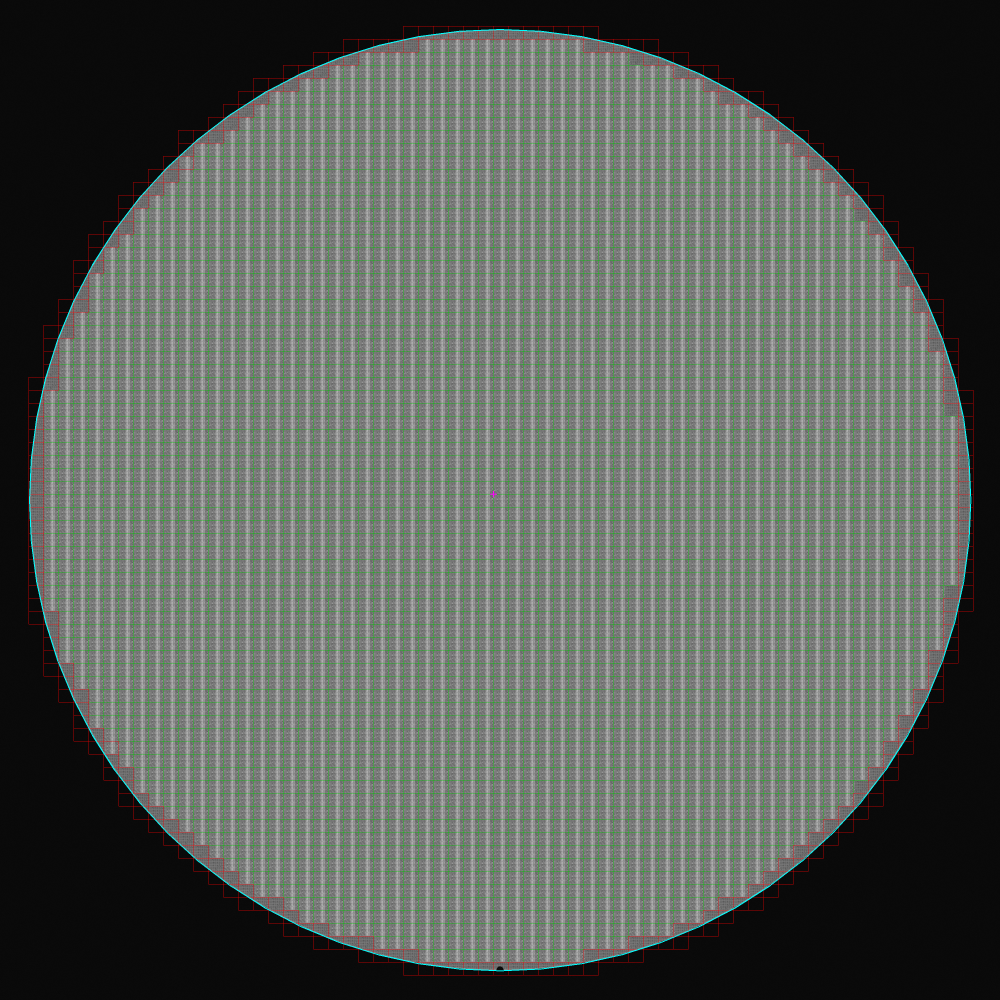
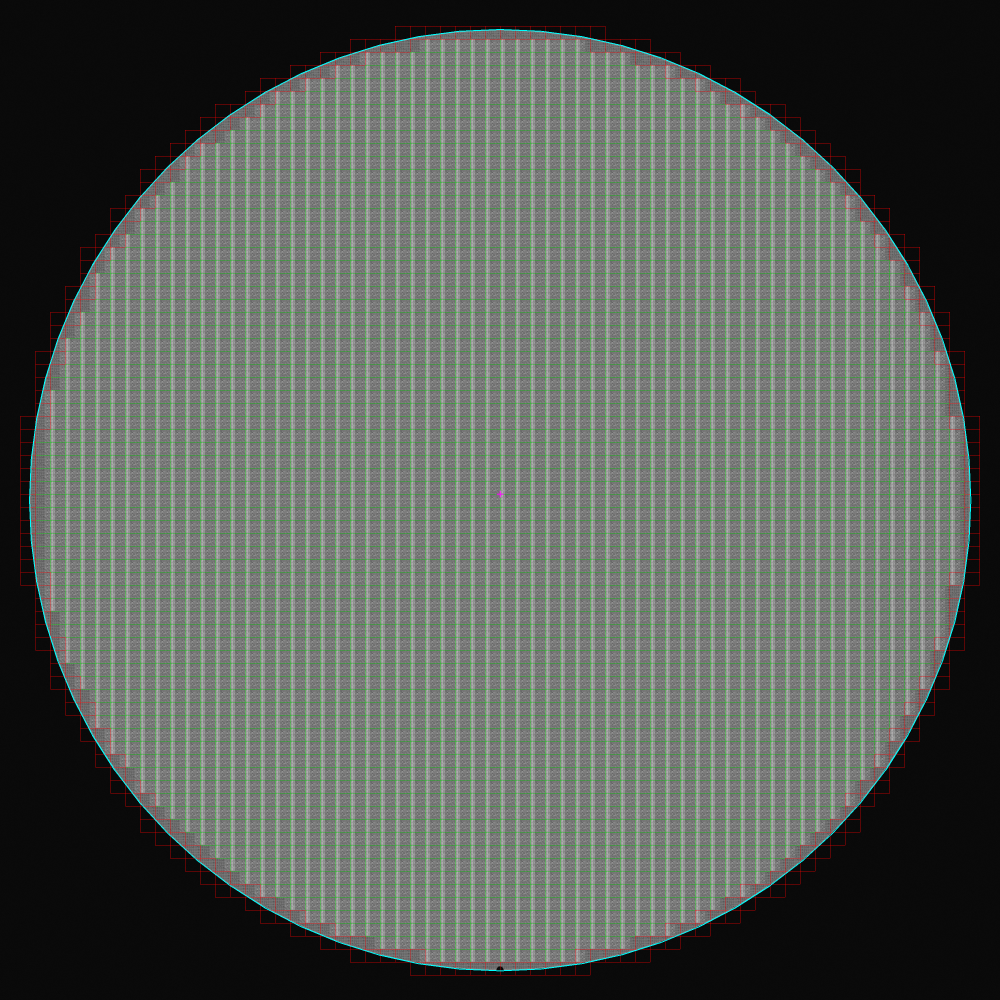
anchor scored gray cross x to wafer center

Changed region(s): [[0.031, 0.031, 0.992, 0.961]]

diff --git a/USE_LATEST/use_gray_wafer_die_particle.py b/USE_LATEST/use_gray_wafer_die_particle.py
@@ -643,27 +643,21 @@ def _select_cross_origin(x_bands: List[Tuple[float, int, int, float]],
         return float(noise_band[0] + direction_to_center * pitch_x * 0.5)
 
     if mode == "center_scored":
-        # Score actual cross candidates, rather than trusting a single strongest
-        # feature.  The distance is normalized by pitch so both axes contribute
-        # comparably even when pitch_x and pitch_y differ.
-        score_x = [band for band in periodic_x if abs(band[0] - wafer_cx) <= pitch_x * 2.2]
+        # This wafer type has a stable physical prior: the feature x coordinate
+        # is essentially the wafer center.  Do not move it half a pitch onto an
+        # inferred boundary when a bright vertical lane dominates the image.
+        # Vertical lanes are retained only for pitch_x measurement.
         score_y = [band for band in periodic_y if abs(band[0] - wafer_cy) <= pitch_y * 2.2]
-        score_x = score_x or candidate_x
         score_y = score_y or candidate_y
         # The real Gray-wafer corner feature is consistently a little above the
         # wafer center.  Prefer that physical side even when a noisy lower row
         # lies one or two pixels closer; use lower rows only as a fallback.
         upper_score_y = [band for band in score_y if band[0] <= wafer_cy]
         score_y = upper_score_y or score_y
-        candidates = [(gv_boundary_from_noise(x_band), float(y_band[0]))
-                      for x_band in score_x for y_band in score_y]
-        selected_x, selected_y = max(
-            candidates,
-            key=lambda point: -math.hypot(
-                (point[0] - wafer_cx) / max(pitch_x, 1e-6),
-                (point[1] - wafer_cy) / max(pitch_y, 1e-6)),
-        )
-        return float(selected_x), float(selected_y)
+        # x stays at the measured wafer center; score only the allowed upper
+        # horizontal rows by their distance from it.
+        selected_y = min(score_y, key=lambda band: abs(band[0] - wafer_cy))
+        return float(wafer_cx), float(selected_y[0])
 
     selected_noise_x = min(candidate_x, key=lambda band: abs(band[0] - wafer_cx))
     selected_x = gv_boundary_from_noise(selected_noise_x)
@@ -2427,8 +2421,8 @@ def build_die_map(image: Union[str, Path, np.ndarray],
                        "half_pitch"는 항상 이동한다.
     cross_origin_mode: cross 방식의 중심 corner 선택. "gv_boundary"(기본)는 중심에 가장 가까운
                        반복 세로 노이즈 lane에서 GV 경계로 이동한다. "center_scored"는 GV 경계와
-                       가로 cross 후보의 모든 조합에 중심 근접 점수를 매겨 가장 높은 점을 선택한다.
-                       이 Gray wafer의 특징에 따라 중심보다 위쪽 y 후보를 우선한다.
+                       x0을 wafer center x에 맞추고, 가로 cross 후보 중 중심에 가장 가까운 위쪽 y를
+                       선택한다. 이 Gray wafer의 특징에 따라 중심보다 위쪽 y 후보를 우선한다.
     pixel_per_unit   : 실측 좌표 환산 (px/unit)
     include_edge     : True 면 웨이퍼 원 안 die 전부 포함(가장자리 잘린 die 포함).
     edge_margin      : die 포함 기준 = (중심거리 <= r * edge_margin).

diff --git a/TEST_3000_GRAY/validate_thin_cross_grid.py b/TEST_3000_GRAY/validate_thin_cross_grid.py
@@ -46,21 +46,21 @@ def main() -> None:
 
     pitch_x, pitch_y, x0, y0 = detect_thin_cross_grid(
         image, wafer_cx, wafer_cy, wafer_r, min_pitch=30, max_pitch=70,
-        cross_origin_mode="center_scored")
+        cross_origin_mode="gv_boundary")
     assert abs(pitch_x - expected_pitch_x) <= 2, (pitch_x, expected_pitch_x)
     assert abs(pitch_y - expected_pitch_y) <= 2, (pitch_y, expected_pitch_y)
     assert abs(x0 - expected_x0) <= 3, (x0, expected_x0)
     assert abs(y0 - expected_y0) <= 3, (y0, expected_y0)
 
-    # New mode: the physical feature is above center, so a noisy lower row that
-    # is closer must not beat the nearest valid upper cross row.
+    # Center-scored mode has a physical x prior: x remains at wafer center, and
+    # a noisy lower row must not beat the nearest valid upper cross row.
     x_bands = [(100.0, 99, 101, 1.0), (150.0, 149, 151, 1.0)]
     y_bands = [(85.0, 84, 86, 1.0), (101.0, 100, 102, 1.0)]
     default_cross = _select_cross_origin(x_bands, y_bands, 100, 100, 50, 50)
     scored_cross = _select_cross_origin(
         x_bands, y_bands, 100, 100, 50, 50, origin_mode="center_scored")
     assert default_cross == (75.0, 85.0), default_cross
-    assert scored_cross == (75.0, 85.0), scored_cross
+    assert scored_cross == (100.0, 85.0), scored_cross
     print({
         "expected": (expected_pitch_x, expected_pitch_y, expected_x0, expected_y0),
         "detected": (round(pitch_x, 3), round(pitch_y, 3), x0, y0),

diff --git a/TEST_3000_GRAY/CENTER_SCORED_MODE_KO.md b/TEST_3000_GRAY/CENTER_SCORED_MODE_KO.md
@@ -12,13 +12,12 @@ dm = build_die_map(
 
 처리 순서:
 
-1. 반복되는 밝은 세로 noise lane에서 `pitch_x`를 측정한다.
-2. 각 lane에서 wafer 중심 방향으로 `pitch_x / 2` 이동해 약한 GV 경계 `x` 후보를 만든다.
+1. 반복되는 밝은 세로 noise lane에서 `pitch_x`만 측정한다.
+2. 이 wafer 종류의 사전조건에 따라 `x0 = wafer_center_x`로 둔다. 밝은 세로 lane이나 반 pitch 이동값을 x0으로 쓰지 않는다.
 3. 가로 방향으로 연속된 thin cross row에서 `y` 후보를 만든다.
 4. `y <= wafer_center_y`인 위쪽 후보가 있으면 아래쪽 후보는 제외한다.
-5. 남은 `(x, y)` 후보 조합에 대해 wafer 중심까지의 거리를 `pitch_x`, `pitch_y`로 정규화한다.
-6. 거리가 가장 작은 조합을 최종 corner로 선택한다.
+5. 남은 y 후보 중 wafer center에 가장 가까운 값을 최종 `y0`으로 선택한다.
 
-기본 `gv_boundary` 모드는 중심에 가장 가까운 세로 lane 하나와 중심 바로 위 가로 row를 사용한다. `center_scored`는 여러 후보가 경쟁하는 실제 노이즈 이미지에서 중심 가까운 교차점을 일관되게 선택하기 위한 모드다. 이 wafer 유형은 feature가 항상 wafer center보다 약간 위에 있으므로, 아래쪽 후보가 몇 px 더 가까워도 위쪽 후보를 우선한다.
+기본 `gv_boundary` 모드는 중심에 가장 가까운 세로 lane 하나와 중심 바로 위 가로 row를 사용한다. `center_scored`는 x가 wafer center와 거의 같고 feature가 항상 wafer center보다 약간 위에 있는 이 wafer 유형 전용 모드다. 아래쪽 후보가 몇 px 더 가까워도 위쪽 후보를 우선한다.
 
-현재 TEST 이미지에서는 두 모드 모두 `(1480, 1482)`를 선택한다. 이는 이 이미지의 중심 후보가 이미 명확하기 때문이다. 회귀 테스트에는 중심보다 1px 아래인 노이즈 row보다, center에서 15px 위에 있는 실제 feature row를 `center_scored`가 우선 선택하는 사례도 포함했다.
+현재 TEST 이미지에서 `center_scored` 결과는 `(1500, 1482)`다. 회귀 테스트에는 중심보다 1px 아래인 노이즈 row보다, center에서 15px 위에 있는 실제 feature row를 `center_scored`가 우선 선택하는 사례도 포함했다.

diff --git a/TEST_3000_GRAY/README_KO.md b/TEST_3000_GRAY/README_KO.md
@@ -38,10 +38,10 @@ dm = build_die_map(
 | wafer radius | `1412` px |
 | `pitch_x`, `pitch_y` | `44.979`, `39.000` px |
 | corner `(x0, y0)` | `(1502, 1492)` px |
-| partial Die 포함 map Die 수 | `3694` |
-| 실제 원-사각형 교차 EDGE | `268` |
-| 기존 중심점 방식이 찾은 EDGE | `142` |
-| 기존 방식 누락 EDGE | `126` |
+| partial Die 포함 map Die 수 | `3708` |
+| 실제 원-사각형 교차 EDGE | `270` |
+| 기존 중심점 방식이 찾은 EDGE | `138` |
+| 기존 방식 누락 EDGE | `132` |
 
 ![3000px Gray preview](wafer_1_gray_preview.png)
 
@@ -53,7 +53,7 @@ dm = build_die_map(
 
 중심 확대 이미지에서 노란색은 폭 제한을 통과한 세로/가로 후보, 하늘색은 선택한 두 축, 자홍색 십자는 최종 교차점이다. 노란 세로 후보는 강한 회색/흰색 노이즈 lane이므로 `x0`으로 쓰지 않는다. 가장 가까운 반복 lane을 기준으로 wafer 중심 방향에 있는 다음 lane 사이의 중간, 즉 `pitch_x/2` 이동한 약한 GV 경계를 하늘색 `x0`으로 사용한다. 가로 후보는 내부 질감의 약 9px 반복이 아닌, 가로 방향으로 연속된 39px 간격의 얇은 선을 사용한다.
 
-이번 TEST 이미지의 최종 십자가는 `(1480, 1482)`이며, `pitch_x=44.979`, `pitch_y=39.000`이다. `validate_thin_cross_grid.py`는 16px 폭의 밝은 세로 노이즈를 중심 근처에 일부러 넣어도, 노이즈 lane이 아닌 `pitch_x/2` 이동한 GV 경계와 올바른 pitch를 찾는지 검사한다.
+이번 TEST 이미지에서 `center_scored` 최종 십자가는 `(1500, 1482)`이며, `pitch_x=44.979`, `pitch_y=39.000`이다. x는 wafer center를 그대로 쓰고 y만 center보다 위의 가로 cross로 선택한다. `validate_thin_cross_grid.py`는 16px 폭의 밝은 세로 노이즈를 중심 근처에 일부러 넣어도, `gv_boundary` 모드가 lane이 아닌 `pitch_x/2` 이동한 GV 경계와 올바른 pitch를 찾는지 검사한다.
 
 ## 수정한 판정 로직
 
